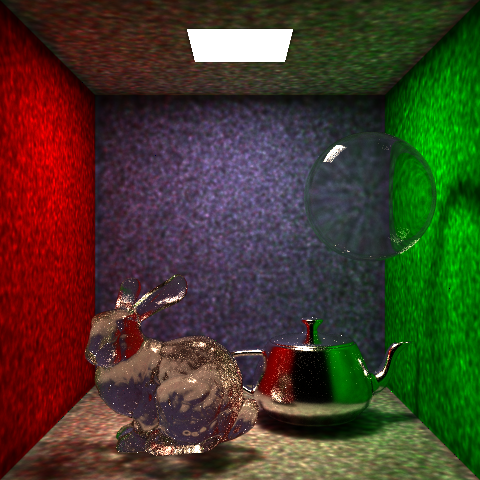
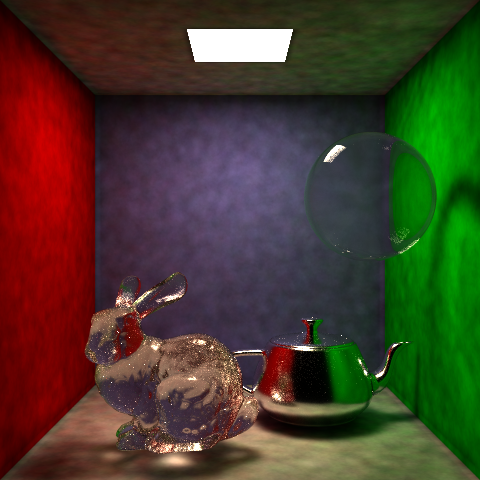
photon mapping

diff --git a/README.md b/README.md
@@ -29,7 +29,7 @@
   
 |[Scene](./scenes/cornell-photon.test)|
 |---|
-|![img](./images/cornell-photon%20(3).png)|
+|![img](./images/cornell-photon2.png)|
 
 
 
